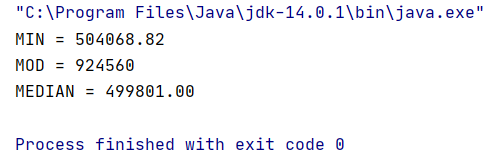
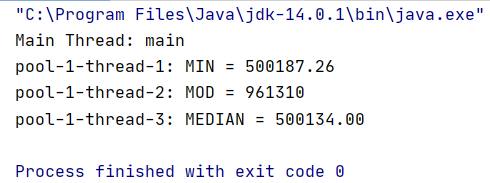
amend issue10

diff --git a/src/main/java/my/issues/issue10/MyThread.java b/src/main/java/my/issues/issue10/MyThread.java
@@ -13,6 +13,7 @@ public class MyThread {
         for (int i = 0; i < numbers.length; i++) {
             numbers[i] = (int) (Math.random() * 1000000);
         }
+        System.out.println("Main Thread: " + Thread.currentThread().getName());
 
         //MIN
         executorService.submit(() -> {
@@ -21,7 +22,7 @@ public class MyThread {
                 sum += n;
             }
             double min = sum / numbers.length;
-            System.out.printf("MIN = %.2f%n", min);
+            System.out.printf("%s: MIN = %.2f%n", Thread.currentThread().getName(), min);
         });
 
         //MOD
@@ -38,7 +39,7 @@ public class MyThread {
                     element = tempElement;
                 }
             }
-            System.out.println("MOD = " + element);
+            System.out.println(Thread.currentThread().getName() + ": MOD = " + element);
         });
 
         //MEDIAN
@@ -47,9 +48,9 @@ public class MyThread {
             int oddMedian = numbers[numbers.length / 2];
             double evenMedian = (numbers[numbers.length / 2] + numbers[(numbers.length / 2) - 1]) / 2;
             if (numbers.length % 2 != 0) {
-                System.out.println("MEDIAN = " + oddMedian);
+                System.out.println(Thread.currentThread().getName() + ": MEDIAN = " + oddMedian);
             } else {
-                System.out.printf("MEDIAN = %.2f%n", evenMedian);
+                System.out.printf("%s: MEDIAN = %.2f%n", Thread.currentThread().getName(), evenMedian);
             }
         });
 
